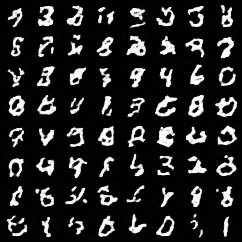
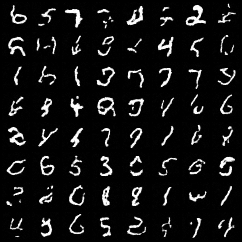
Latest working version

diff --git a/src/part_b_diffusion/run_ddpm.py b/src/part_b_diffusion/run_ddpm.py
@@ -350,6 +350,24 @@ def build_latent_model(config: dict, device: str) -> DDPMLatent:
     return DDPMLatent(vae, ddpm, freeze_encoder=True)
 
 
+def sample_from_latent_model(model, num_samples: int, device: str):
+    """Generate samples from latent DDPM with timing."""
+    device_str = device if isinstance(device, str) else str(device)
+    
+    with torch.no_grad():
+        start = time.perf_counter()
+        samples = model.sample(num_samples).cpu()
+        if 'cuda' in device_str:
+            torch.cuda.synchronize()
+        end = time.perf_counter()
+    
+    elapsed = end - start
+    s_per = num_samples / elapsed if elapsed > 0 else float('inf')
+    print(f"[TIMING] Latent DDPM sampling: {elapsed:.4f} s for {num_samples} samples ({s_per:.2f} samples/s)")
+    
+    return samples, elapsed, s_per
+
+
 def run_train_latent(config: dict):
     """Train VAE then DDPM in latent space."""
     device = config['training']['device']
@@ -456,25 +474,14 @@ def run_sample_latent(config: dict):
     num_samples = config['sampling']['num_samples']
     
     print(f"Generating {num_samples} samples from latent DDPM...")
-    device_str = device if isinstance(device, str) else str(device)
-
-    # Measure latent DDPM + decode (DDPMLatent.sample does both)
-    with torch.no_grad():
-        start = time.perf_counter()
-        samples = model.sample(num_samples).cpu()
-        if 'cuda' in device_str:
-            torch.cuda.synchronize()
-        end = time.perf_counter()
-    elapsed = end - start
-    s_per = num_samples / elapsed if elapsed > 0 else float('inf')
-    print(f"[TIMING] Latent DDPM (DDPM+VAE decode): {elapsed:.4f} s for {num_samples} samples ({s_per:.2f} samples/s)")
+    samples, elapsed, s_per = sample_from_latent_model(model, num_samples, device)
 
     # Additionally measure pure VAE prior sampling (z ~ p(z), x ~ p(x|z)) for comparison
     try:
         with torch.no_grad():
             start_v = time.perf_counter()
             vae_samples = model.vae.sample(num_samples).to(device)  # ensure device
-            if 'cuda' in device_str:
+            if 'cuda' in str(device):
                 torch.cuda.synchronize()
             end_v = time.perf_counter()
         elapsed_v = end_v - start_v
@@ -532,7 +539,7 @@ def run_fid_latent(config: dict):
     
     # Generate samples
     print(f"Generating {num_samples} samples...")
-    gen_images = model.sample(num_samples)
+    gen_images, elapsed, s_per = sample_from_latent_model(model, num_samples, device)
     gen_images = gen_images.unsqueeze(1).to(device)  # (n, 1, 28, 28)
     
     # Compute FID

diff --git a/src/part_b_diffusion/ddpm_vae_beta.py b/src/part_b_diffusion/ddpm_vae_beta.py
@@ -9,7 +9,7 @@ import torch
 import torch.nn as nn
 import numpy as np
 
-from part_b_diffusion.ddpm import DDPM, FcNetwork
+from part_b_diffusion.ddpm import DDPM
 from part_a_vaes.vae_priors_temp import GaussianPrior, Encoder, GaussianDecoder, VAE
 
 
